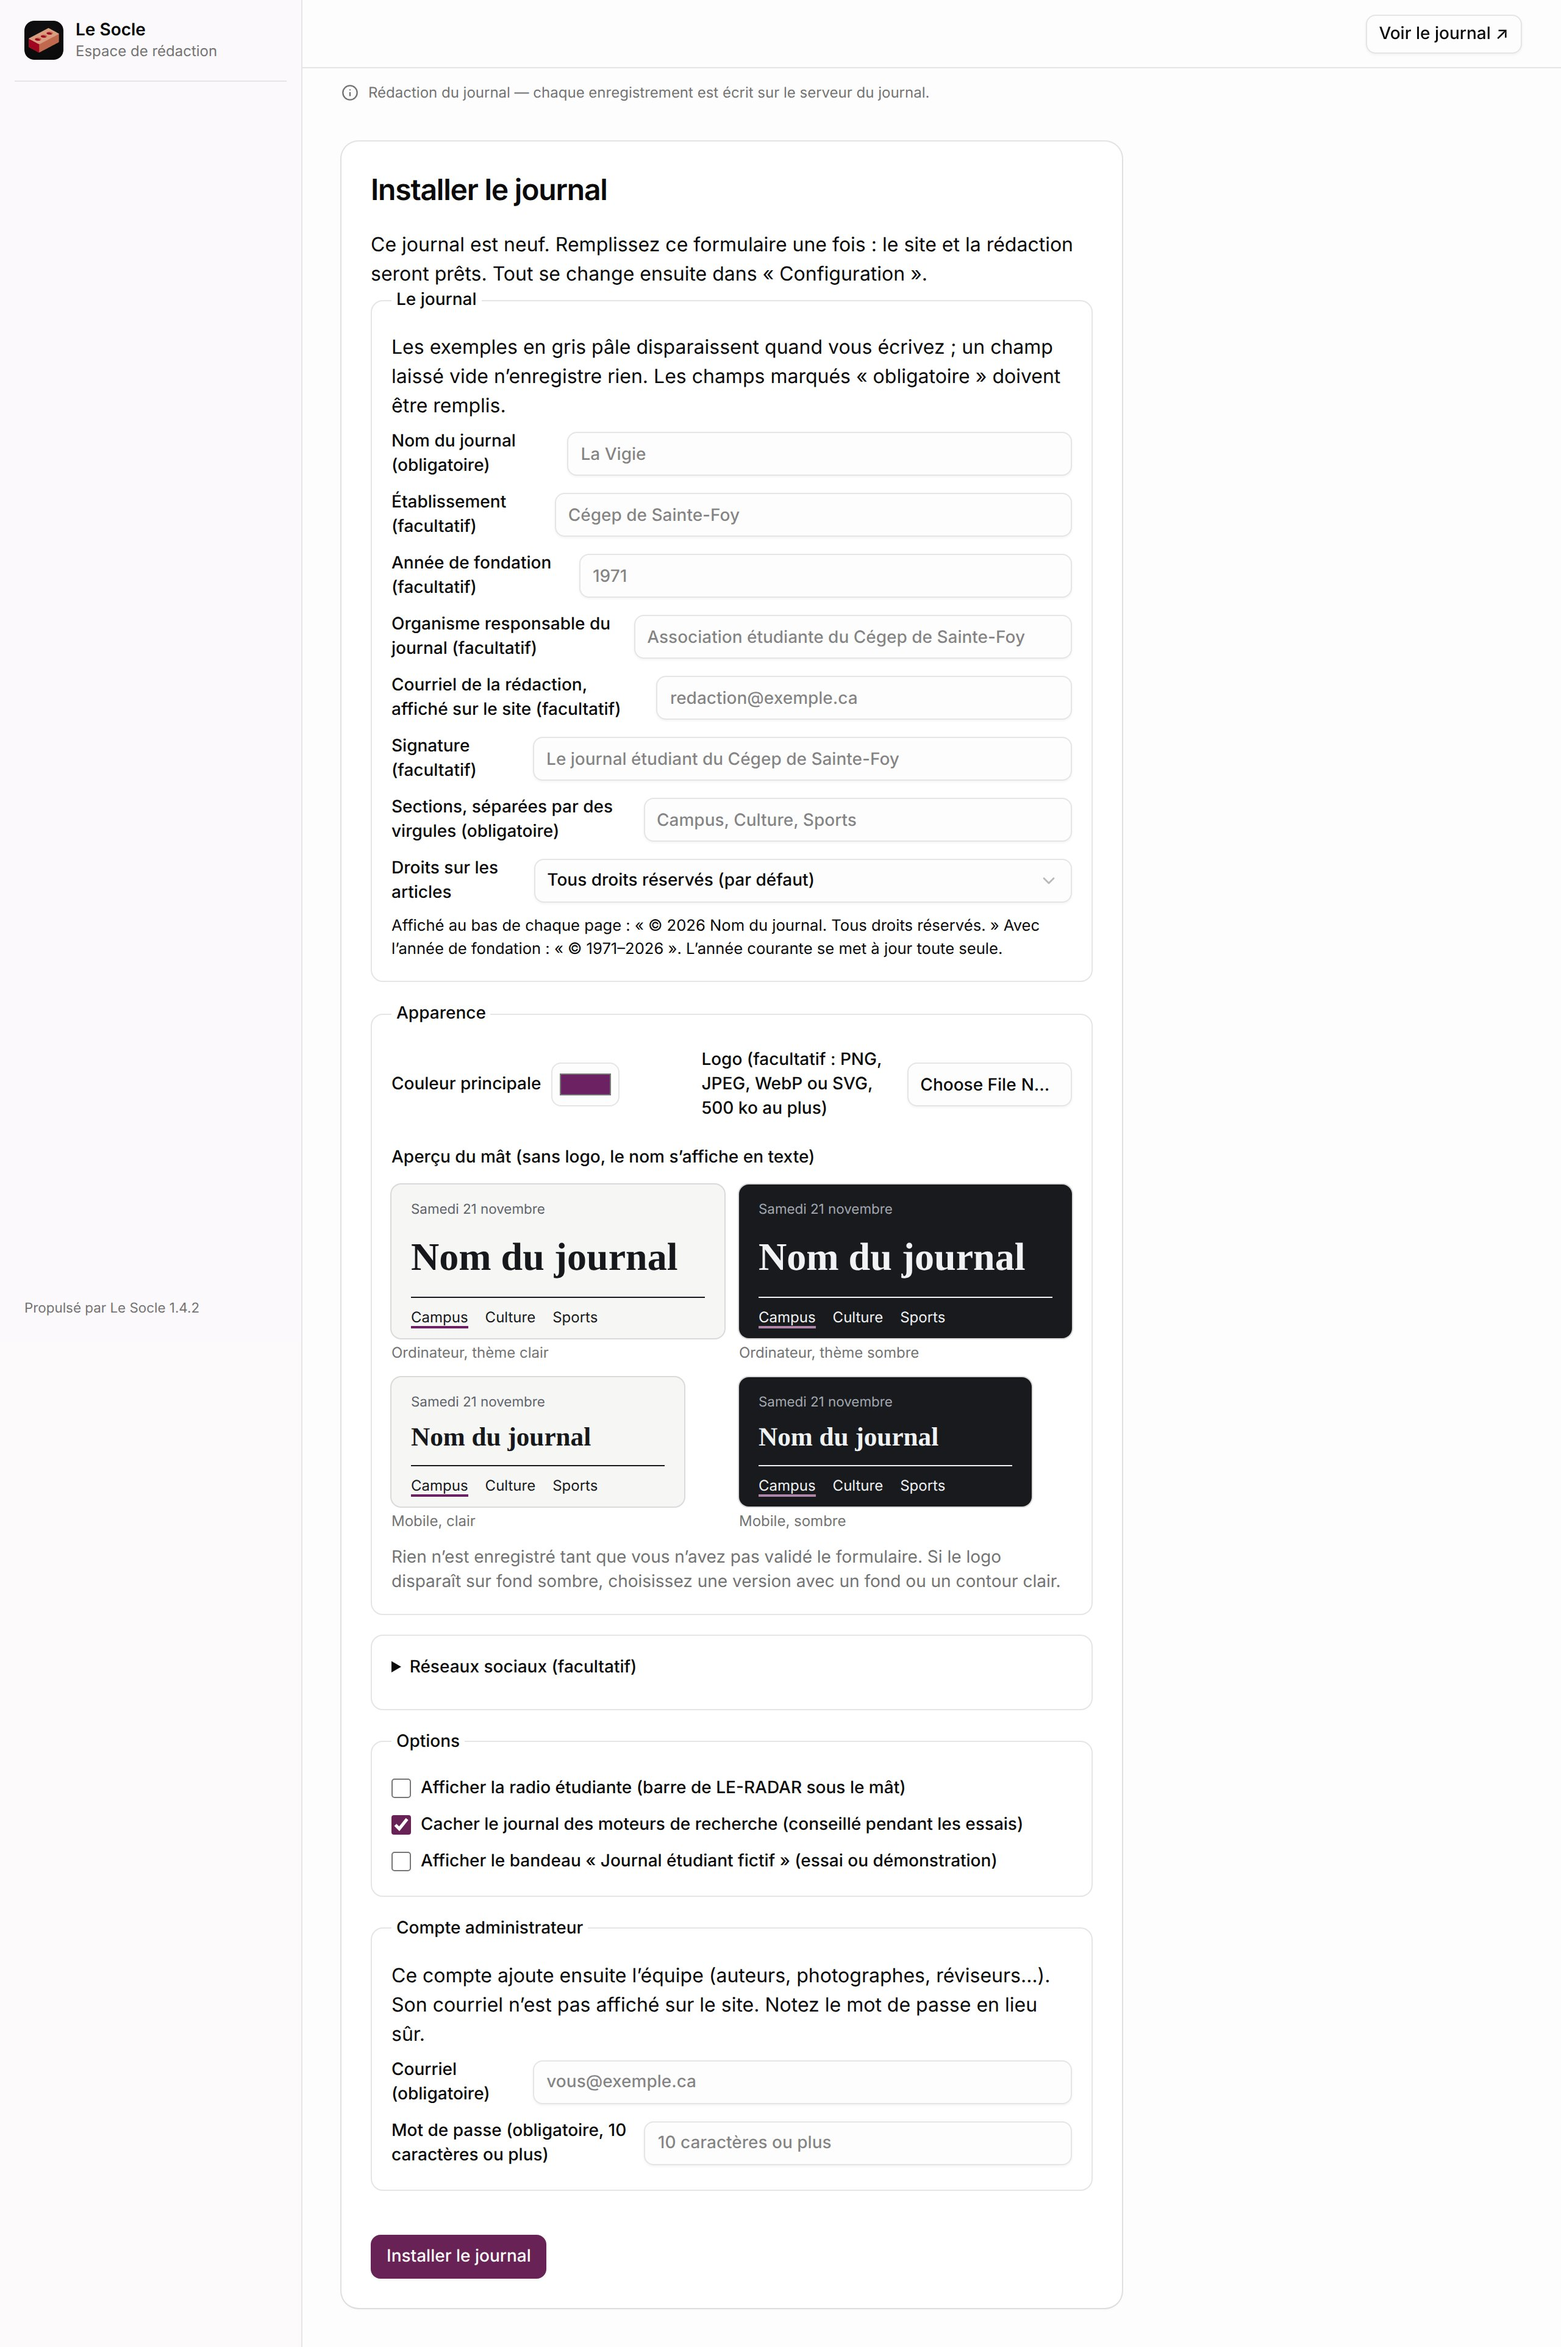
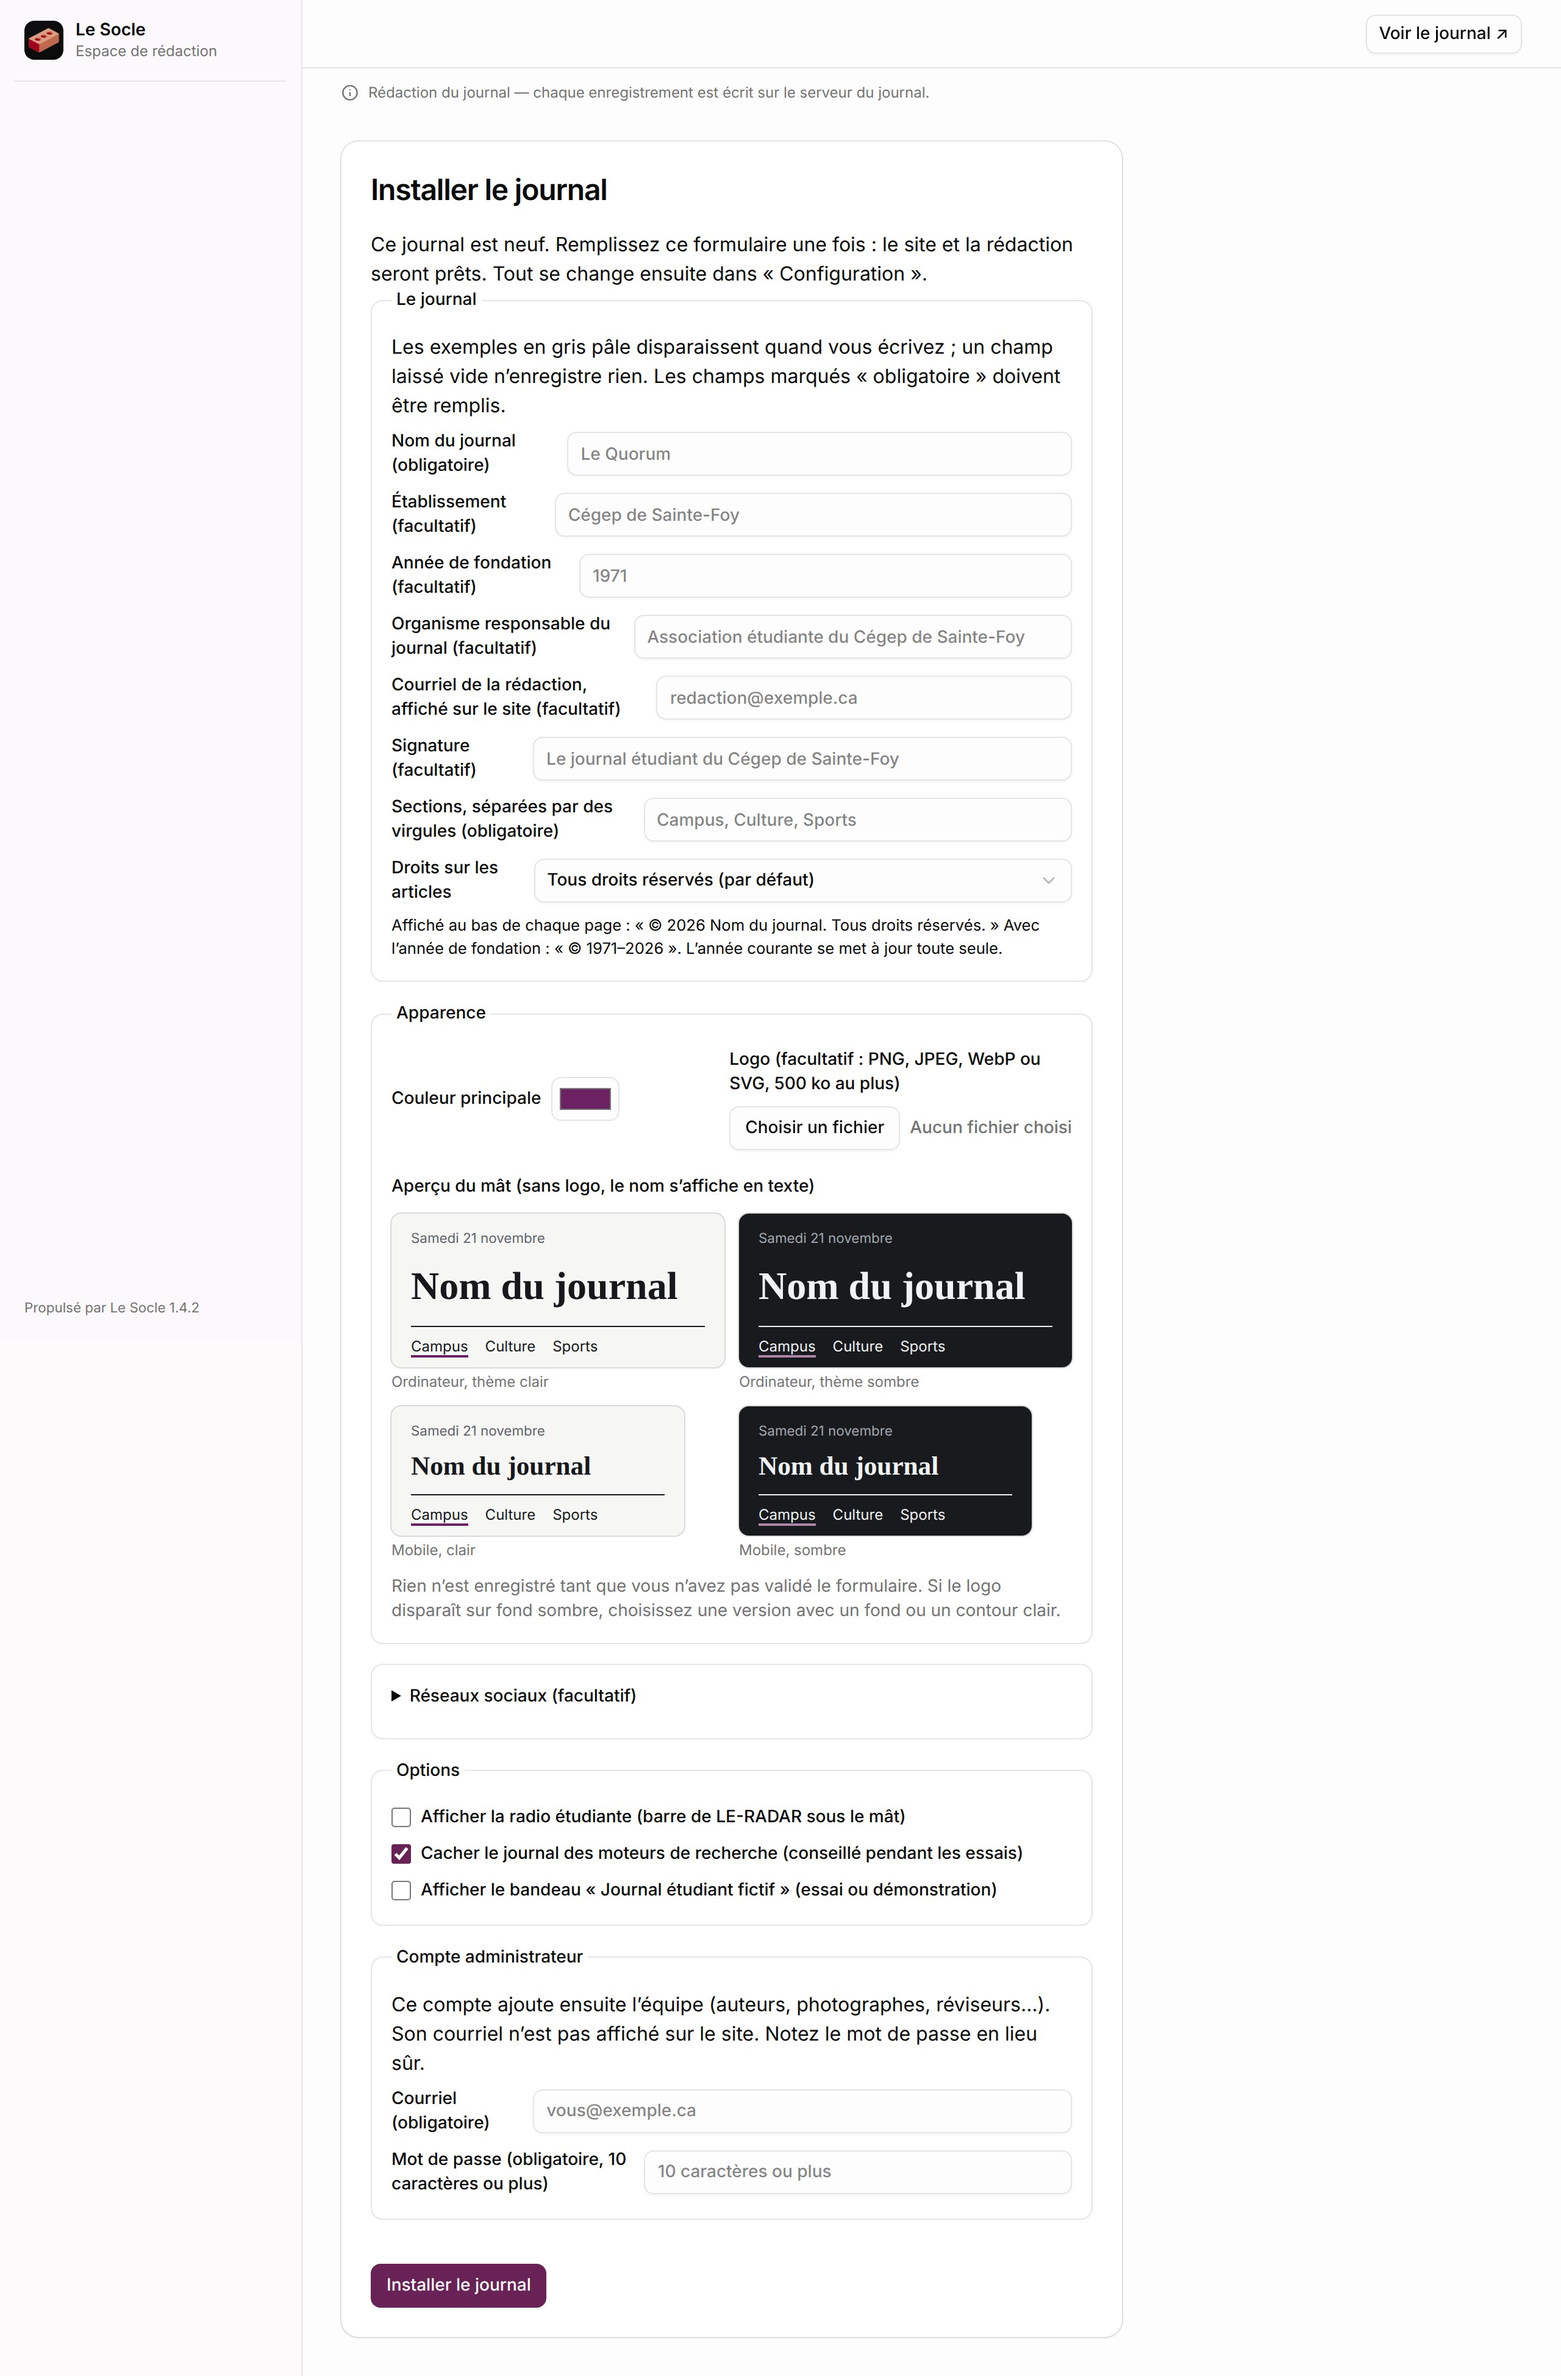
Reprend la capture de l’assistant d’installation
L’exemple gris est « Le Quorum » et le logo se choisit avec « Choisir un fichier ».

diff --git a/site/index.html b/site/index.html
@@ -96,7 +96,7 @@
             <figcaption>L’éditeur d’article.</figcaption>
           </figure>
           <figure class="shot shot--tall">
-            <img src="assets/captures/assistant-installation.jpg" width="2560" height="3848" alt="Assistant d’installation du journal, champs encore vides." loading="lazy">
+            <img src="assets/captures/assistant-installation.jpg" width="2560" height="3896" alt="Assistant d’installation du journal, champs encore vides." loading="lazy">
             <figcaption>L’assistant d’installation, à la première visite.</figcaption>
           </figure>
           <figure class="shot shot--wide">
